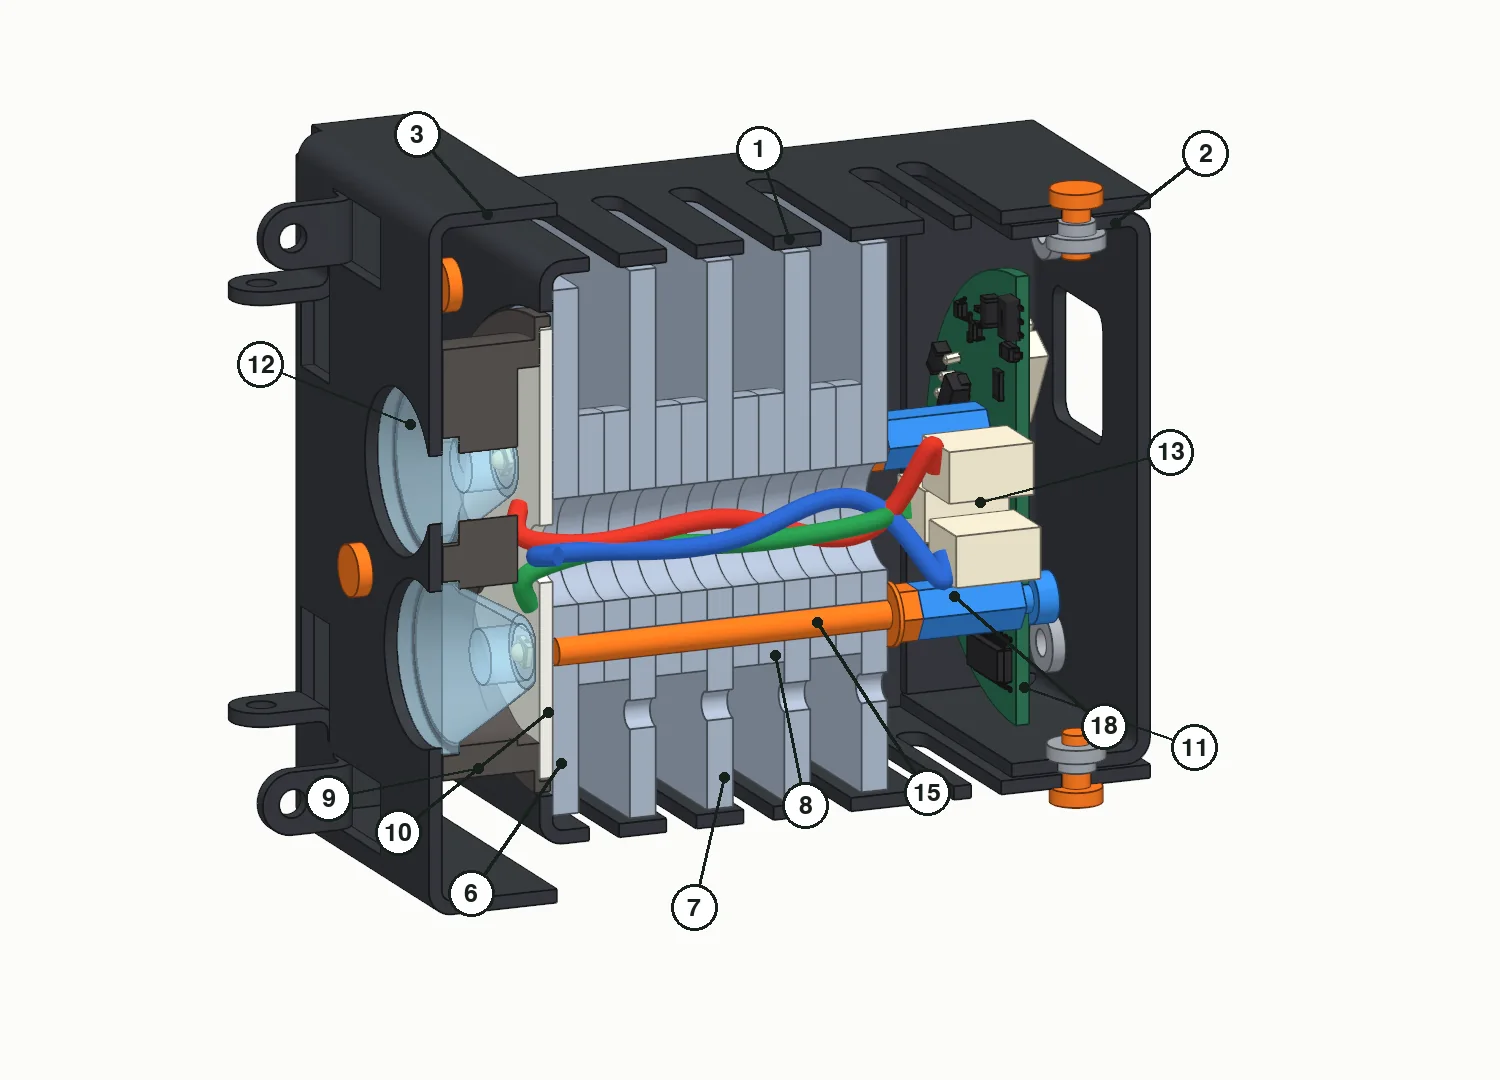
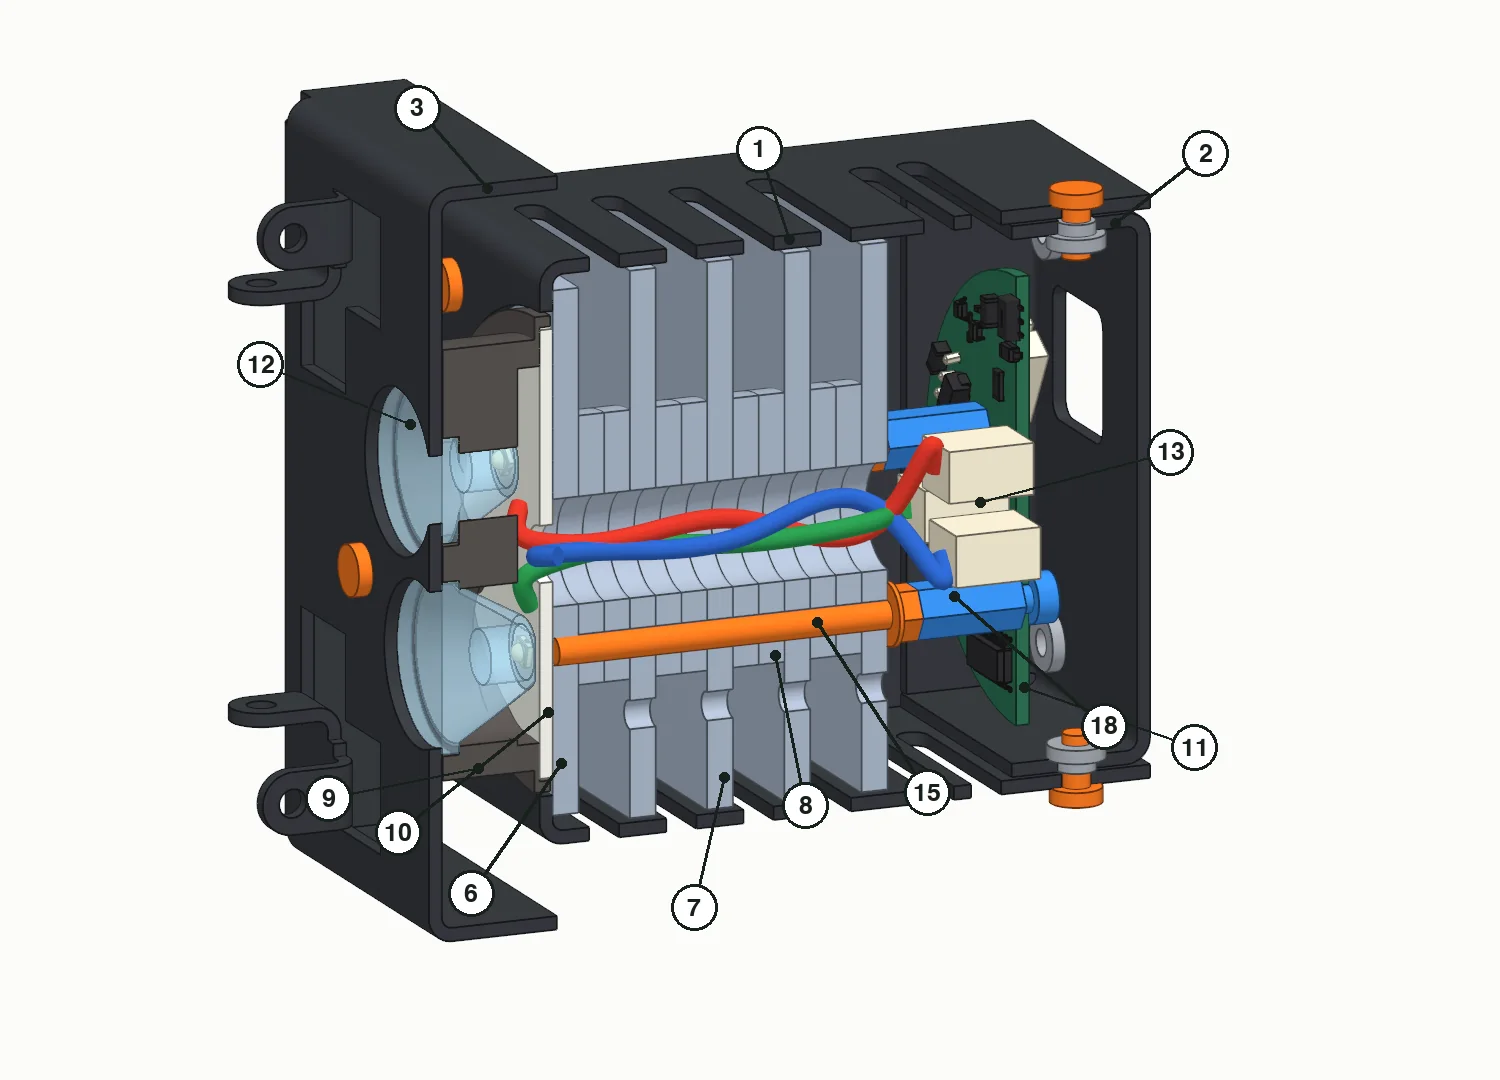
docs: the assembly guide follows round 8's hood and the AliExpress order
Master moved while the guide was written. PR #4 replaced the hood (round 8,
D36): 84 mm square, with wider windows beside the lugs. assembly_views.py
now builds from round8.py, and the seven pictures that show the hood are
drawn again. Step 9 takes two points from D38: brush print powder out of
the carrier's pockets, and don't lever on the skirt's 0.6 mm ring.

The lenses, sleeve and silicone were ordered on 2026-11-19, so the guide
says "ordered" where it said "in the cart". Their fit stays open.

diff --git a/docs/assembly/index.html b/docs/assembly/index.html
@@ -219,14 +219,14 @@ pre { margin: 0; font-family: var(--font-mono); font-size: 12.5px; background: v
   </div>
   <div class="tb">
     <div><span class="k">Boards</span><span class="v">driver v2.4 · LED v2.0</span></div>
-    <div><span class="k">Housing</span><span class="v">round 7</span></div>
+    <div><span class="k">Housing</span><span class="v">round 8</span></div>
     <div><span class="k">Written</span><span class="v mono">2026-11-19</span></div>
     <div><span class="k">Built from it</span><span class="v">no lamp yet</span></div>
     <div class="wide"><span class="k">State</span><span class="v">Written from the design files before any part arrived. Nothing here has been tried on hardware: each step says how far it is settled, and the <a href="#open">open points</a> list what the first build has to answer.</span></div>
   </div>
   <div class="specs">
     <span>shell <b>65 × 65 mm</b></span>
-    <span>hood <b>78 × 78 mm</b></span>
+    <span>hood <b>84 × 84 mm</b></span>
     <span>length <b>94 mm</b>, 130 with the doors standing</span>
     <span>over the knobs <b>115 mm</b></span>
     <span>about <b>0.38 kg</b> (estimate, D30)</span>
@@ -346,7 +346,7 @@ pre { margin: 0; font-family: var(--font-mono); font-size: 12.5px; background: v
         <tr class="grp"><td colspan="5">Housing: sheet metal from JLCCNC (Al 5052) and one print</td></tr>
         <tr><td class="n"><b class="pn">1</b></td><td>Shell</td><td class="n">1</td><td class="n">5</td><td>1.5 mm, black powder coat. Front face with the 54 mm window, four walls with vent slots.</td></tr>
         <tr><td class="n"><b class="pn">2</b></td><td>Cap</td><td class="n">1</td><td class="n">5</td><td>1.5 mm, black. Comes with 8 press nuts fitted: M3 top and bottom, M4 in each side rim, 4 × M3 in the back.</td></tr>
-        <tr><td class="n"><b class="pn">3</b></td><td>Hood</td><td class="n">1</td><td class="n">5</td><td>1.5 mm, black. Three lens windows, eight lugs for the door pins.</td></tr>
+        <tr><td class="n"><b class="pn">3</b></td><td>Hood</td><td class="n">1</td><td class="n">5</td><td>1.5 mm, black, 84 mm square (round 8, D36). Three lens windows, eight lugs for the door pins.</td></tr>
         <tr><td class="n"><b class="pn">4</b></td><td>Door</td><td class="n">4</td><td class="n">20</td><td>1.0 mm, black. One part four times: 40 mm from hinge to tip, 71 mm wide.</td></tr>
         <tr><td class="n"><b class="pn">5</b></td><td>Yoke</td><td class="n">1</td><td class="n">5</td><td>3 mm, black.</td></tr>
         <tr><td class="n"><b class="pn">6</b></td><td>Plate</td><td class="n">1</td><td class="n">5</td><td>3 mm, bare, 58.5 mm square, 10 × M3 threads and the 12 mm bore. It has a front and a back: see step 5.</td></tr>
@@ -356,7 +356,7 @@ pre { margin: 0; font-family: var(--font-mono); font-size: 12.5px; background: v
         <tr class="grp"><td colspan="5">Boards and optics</td></tr>
         <tr><td class="n"><b class="pn">10</b></td><td>LED board v2.0</td><td class="n">1</td><td class="n">5</td><td>Aluminium, white mask, the three LEDs fitted by JLC. Arrives with JLC's edge rails on.</td></tr>
         <tr><td class="n"><b class="pn">11</b></td><td>Driver board v2.4</td><td class="n">1</td><td class="n">5</td><td>Assembled by JLC except J1 and J2.</td></tr>
-        <tr><td class="n"><b class="pn">12</b></td><td>Lens</td><td class="n">3</td><td class="n">15</td><td>Generic 20 mm PMMA TIR lens without holder, 30°, smooth face (AliExpress item 1005002662759375). 20 are in the cart, unpaid, on 2026-11-19: 15 and 5 spare. The listing has no drawing, so the fit is not known: step 9.</td></tr>
+        <tr><td class="n"><b class="pn">12</b></td><td>Lens</td><td class="n">3</td><td class="n">15</td><td>Generic 20 mm PMMA TIR lens without holder, 30°, smooth face (AliExpress item 1005002662759375). 20 ordered on 2026-11-19: 15 and 5 spare. The listing has no drawing, so the fit is not known: step 9.</td></tr>
         <tr><td class="n"><b class="pn">13</b></td><td>LED lead</td><td class="n">3</td><td class="n">15</td><td>JST XHP-2 plug (C144401), two SXH-001T-P0.6 contacts (C140573), two wires of about 8 cm; or a ready-made XH 2-pin lead. From own stock.</td></tr>
         <tr><td class="n"><b class="pn">14</b></td><td>XH 3-pin header</td><td class="n">2</td><td class="n">10</td><td>JST B3B-XH-A (C144394), for J1 and J2. In LCSC order WM2611190181.</td></tr>
         <tr class="grp"><td colspan="5">Fasteners, to buy (PRODUCTION.md, Parts for the open orders)</td></tr>
@@ -414,8 +414,8 @@ pre { margin: 0; font-family: var(--font-mono); font-size: 12.5px; background: v
         <li><b>Thread-lock, medium strength</b>: the studs in the plate.</li>
         <li><b>Solder.</b></li>
         <li><b>Wire</b> for the leads: 24 AWG with thin high-temperature insulation, at most 1.5 mm across. Not silicone (D24).</li>
-        <li><b>Sleeve</b> for the six wires in the LED board's hole (D20): silicone-coated fibreglass, black, 200 °C, in 4 mm and 5 mm inner diameter. In the AliExpress cart. <span class="tag open">open</span> Which size fits: step 3.</li>
-        <li><b>Black silicone</b>, a dab for the wire hole (D27): Kafuter K-704B, RTV. In the AliExpress cart. <span class="tag open">open</span> When it goes on: step 8.</li>
+        <li><b>Sleeve</b> for the six wires in the LED board's hole (D20): silicone-coated fibreglass, black, 200 °C, in 4 mm and 5 mm inner diameter. Ordered at AliExpress on 2026-11-19. <span class="tag open">open</span> Which size fits: step 3.</li>
+        <li><b>Black silicone</b>, a dab for the wire hole (D27): Kafuter K-704B, RTV. Ordered at AliExpress on 2026-11-19. <span class="tag open">open</span> When it goes on: step 8.</li>
       </ul>
     </div>
   </div>
@@ -584,7 +584,7 @@ pre { margin: 0; font-family: var(--font-mono); font-size: 12.5px; background: v
         <h4>Open</h4>
         <ul>
           <li><b>The rails.</b> How JLC joins them to a round aluminium board is not known until the boards arrive.</li>
-          <li><b>The sleeve's size.</b> Two are in the cart, 4 mm and 5 mm inside, and the listing gives no wall thickness: use whichever passes the 6.4 mm hole with the six wires in it. Six 1.5 mm wires bundle to about 4.5 mm, so the 5 mm one is the likelier, if its wall is 0.7 mm or less. Worked out here, not tried.</li>
+          <li><b>The sleeve's size.</b> Two are ordered, 4 mm and 5 mm inside, and the listing gives no wall thickness: use whichever passes the 6.4 mm hole with the six wires in it. Six 1.5 mm wires bundle to about 4.5 mm, so the 5 mm one is the likelier, if its wall is 0.7 mm or less. Worked out here, not tried.</li>
           <li><b>No grommet.</b> Its flange on the board's front, with a wire over it, would stand higher than the 2.5 mm the carrier leaves.</li>
           <li><b>Soldering to aluminium</b> has not been tried on this board.</li>
         </ul>
@@ -878,7 +878,8 @@ pre { margin: 0; font-family: var(--font-mono); font-size: 12.5px; background: v
         <span><b>Tools:</b> 2 mm hex key</span>
       </div>
       <ol class="do">
-        <li>Set the carrier on the LED board: its skirt goes down around the board's edge, its three small holes over the board's.</li>
+        <li>Look into the carrier's three pockets and brush out any powder left from printing. Powder on a pocket's ledge lifts its lens by its own thickness (D38).</li>
+        <li>Set the carrier on the LED board: its skirt goes down around the board's edge, its three small holes over the board's. Don't lever on the skirt: it hangs from a ring 0.6 mm thick.</li>
         <li>Drop a lens into each pocket, narrow end down, so its hollow sits over the LED and its flange rests on the ledge. Hold the lenses by the flange.</li>
         <li>Lower the hood over them, its three round windows over the lenses and its walls back over the shell's front.</li>
         <li>Three M3 × 20 through hood, carrier and LED board into the plate. Tighten them evenly, a little at a time: they clamp the LED board through the lens flanges and the carrier.</li>
@@ -893,7 +894,7 @@ pre { margin: 0; font-family: var(--font-mono); font-size: 12.5px; background: v
       <div class="openpt">
         <h4>Open</h4>
         <ul>
-          <li><b>The lenses</b> are in the cart, not on hand, and their listing has no drawing. Measure them on arrival against the model: 10.8 mm tall, flange 19.9 × 2.0 mm, hollow 6.1 mm. Another seller's drawing shows 10.4, 1.9 and 6.4 mm. Whether they fit the 20.4 mm pockets is not known.</li>
+          <li><b>The lenses</b> are ordered, not on hand, and their listing has no drawing. Measure them on arrival against the model: 10.8 mm tall, flange 19.9 × 2.0 mm, hollow 6.1 mm. Another seller's drawing shows 10.4, 1.9 and 6.4 mm. Whether they fit the 20.4 mm pockets is not known.</li>
           <li><b>The flange.</b> The pockets are 1.9 mm deep. A 1.9 mm flange would sit flush with the carrier, and the hood would no longer press on the lens. Worked out from the model.</li>
           <li><b>How tight.</b> No torque is recorded. The screws bear on PMMA flanges and a printed carrier: stop when they are snug.</li>
         </ul>
@@ -1093,7 +1094,7 @@ pre { margin: 0; font-family: var(--font-mono); font-size: 12.5px; background: v
     <div class="step-head"><span class="step-no">B</span><h3>Focus test with the taller carriers</h3><span class="tag open">open</span></div>
     <div class="step-pics">
       <p class="muted">The first order has one carrier 0.5 mm taller and one 1.0 mm taller besides the five (D27). A taller carrier lifts the lenses and the hood by that much.</p>
-      <p class="muted">The cart also has five each of four other 20 mm lenses to compare with the 30° smooth one: 15° smooth, 45° smooth, 30° with a bead face and 30° frosted. They change in the same way, without the carrier.</p>
+      <p class="muted">The lens order also has five each of four other 20 mm lenses to compare with the 30° smooth one: 15° smooth, 45° smooth, 30° with a bead face and 30° frosted. They change in the same way, without the carrier.</p>
       <p class="muted small">The LED screws still reach: their tips stand 2.6 mm out of the plate's back with the normal carrier, so 1.6 mm with the tallest. The hood's walls then reach 1.0 mm back over the shell in place of 2.0.</p>
     </div>
     <div class="step-body">
@@ -1118,9 +1119,9 @@ pre { margin: 0; font-family: var(--font-mono); font-size: 12.5px; background: v
     <p class="muted">What the records do not settle, and the fits that exist only in the model. The first lamp answers most of them.</p>
   </div>
   <ol class="qs">
-    <li><div><b>The lenses</b> <span class="src">parts, step 9</span><p>Chosen on 2026-11-19 and in the AliExpress cart, unpaid: 20 of a generic 20 mm lens, 30°, smooth. The listing has no drawing. Measure on arrival: the model has 10.8 mm tall, flange 2.0, hollow 6.1; another seller's drawing shows 10.4, 1.9 and 6.4.</p></div></li>
-    <li><div><b>The sleeve in the LED board's hole</b> <span class="src">step 3</span><p>Silicone-coated fibreglass sleeve is in the cart in 4 mm and 5 mm. No wall thickness is given: which one passes the 6.4 mm hole with six wires in it shows when they arrive.</p></div></li>
-    <li><div><b>The black silicone</b> <span class="src">step 8</span><p>Kafuter K-704B is in the cart; its listing doesn't state the cure type. When it goes on is not recorded: this guide puts it at the end of step 8.</p></div></li>
+    <li><div><b>The lenses</b> <span class="src">parts, step 9</span><p>Ordered at AliExpress on 2026-11-19, not on hand: 20 of a generic 20 mm lens, 30°, smooth. The listing has no drawing. Measure on arrival: the model has 10.8 mm tall, flange 2.0, hollow 6.1; another seller's drawing shows 10.4, 1.9 and 6.4.</p></div></li>
+    <li><div><b>The sleeve in the LED board's hole</b> <span class="src">step 3</span><p>Silicone-coated fibreglass sleeve is ordered in 4 mm and 5 mm. No wall thickness is given: which one passes the 6.4 mm hole with six wires in it shows when they arrive.</p></div></li>
+    <li><div><b>The black silicone</b> <span class="src">step 8</span><p>Kafuter K-704B is ordered; its listing doesn't state the cure type. When it goes on is not recorded: this guide puts it at the end of step 8.</p></div></li>
     <li><div><b>The studs' depth and the thread-lock's cure</b> <span class="src">step 5</span><p>0.2 mm below the plate's front face is recorded, not how to set it. No product is chosen, so no cure time.</p></div></li>
     <li><div><b>The doors</b> <span class="src">step 11</span><p>Before or after the cap, and how tight the nylocks go.</p></div></li>
     <li><div><b>JLC's rails on the aluminium boards</b> <span class="src">step 3</span><p>How they are joined and how clean they break. The carrier's skirt clears the board's edge by 0.3 mm.</p></div></li>
@@ -1154,15 +1155,15 @@ pre { margin: 0; font-family: var(--font-mono); font-size: 12.5px; background: v
 
 <section class="panel sources" id="sources">
   <div class="sec-head"><span class="eyebrow">Sources</span></div>
-  <div>From the project at master 76d5e04 (2026-11-18):</div>
+  <div>From the project at master 11a3b1e (2026-11-19):</div>
   <ul>
-    <li><code>mech/housing/README.md</code>: the parts, the fasteners and the assembly order. <code>mech/housing/sheet.py</code> and <code>round2.py</code> to <code>round7.py</code>: every size and clearance quoted here.</li>
-    <li>DESIGN.md decisions D19 to D35. PRODUCTION.md, "After the boards arrive" and the parts table. <code>production/orders/2026-11-16-v2-first/order.toml</code>.</li>
+    <li><code>mech/housing/README.md</code>: the parts, the fasteners and the assembly order. <code>mech/housing/sheet.py</code> and <code>round2.py</code> to <code>round8.py</code>: every size and clearance quoted here.</li>
+    <li>DESIGN.md decisions D19 to D38. PRODUCTION.md, "After the boards arrive" and the parts table. <code>production/orders/2026-11-16-v2-first/order.toml</code>.</li>
     <li><code>docs/reviews/2026-10-30-v2.md</code>: the bench list and R8 to R13.</li>
-    <li>The lenses, the sleeve and the silicone: the order's extras at master b3cb28a (2026-11-19).</li>
+    <li>The lenses, the sleeve and the silicone: the extras in the order file above, as recorded on 2026-11-19.</li>
     <li>Pad and pin places on the board pictures: read from <code>boards/driver/driver.kicad_pcb</code> and <code>boards/led/led.kicad_pcb</code>.</li>
   </ul>
-  <div>The pictures in <code>img/</code> come from one script. It draws the housing from round 7's model and cuts the boards' views from <code>docs/previews/</code>. After a change to the model or a board:</div>
+  <div>The pictures in <code>img/</code> come from one script. It draws the housing from round 8's model and cuts the boards' views from <code>docs/previews/</code>. After a change to the model or a board:</div>
   <pre>cd mech/housing
 ROT=45 uv run --python 3.12 --with cadquery --with pillow python assembly_views.py ../../docs/assembly/img</pre>
   <div>It needs the two boards' STEP files in <code>mech/out/</code> (the commands are in <code>mech/housing/README.md</code>). The part numbers are the script's <code>PART</code> table and this page's parts table: change both together. The drawings in steps 2, 5 and 8 and the labels on the board pictures are in this file.</div>

diff --git a/mech/housing/assembly_views.py b/mech/housing/assembly_views.py
@@ -1,8 +1,8 @@
-"""The assembly guide's pictures (docs/assembly/img/), drawn from round 7's model.
+"""The assembly guide's pictures (docs/assembly/img/), drawn from round 8's model: round 7 with the new hood.
 
 ROT=45 uv run --python 3.12 --with cadquery --with pillow python assembly_views.py ../../docs/assembly/img [NAME ...]
 
-Each picture is one scene: solids from round7.py and the two boards' STEPs (../out, see README.md), tessellated, drawn
+Each picture is one scene: solids from round8.py and the two boards' STEPs (../out, see README.md), tessellated, drawn
 off-screen with VTK through a parallel camera, and numbered with PIL. With names after the folder, only those scenes are
 drawn; PNG=1 writes PNGs beside the WebPs.
 
@@ -32,6 +32,7 @@ from vtk.util import numpy_support as ns  # noqa: E402
 import round3 as R3  # noqa: E402
 import round4 as R4  # noqa: E402
 import round7 as R7  # noqa: E402
+import round8 as R8  # noqa: E402
 import sheet as S  # noqa: E402
 
 # part number -> (name, per lamp)
@@ -158,8 +159,8 @@ def door_pins():
 
 
 print("building the model ...", flush=True)
-parts = R7.build()
-LAMP, HW = group(R7.lamp(parts, 90, 90)), group(R7.hardware())
+parts = R8.build()
+LAMP, HW = group(R8.lamp(parts, 90, 90)), group(R8.hardware())
 zc = lambda s: s.BoundingBox().center.z                       # noqa: E731
 LAMP["fin"].sort(key=zc, reverse=True)                        # front to back
 LAMP["spacer"].sort(key=zc, reverse=True)
@@ -486,7 +487,7 @@ def lead(sc, c, pts, plug_at):
 
 # ---------------------------------------------------------------- the scenes
 def lamp_views():
-    dm = [mesh(s) for _, s in R7.doors(parts["door"], 118, 118)]
+    dm = [mesh(s) for _, s in R8.doors(parts["door"], 118, 118)]
     for name, eye, focal, scale in (("lamp-front", (0.80, 0.42, 1.0), (0, -8, -8), 82),
                                     ("lamp-back", (0.85, 0.48, -1.0), (0, 2, -6), 96)):
         if ONLY and name not in ONLY:
@@ -705,7 +706,7 @@ def P(name, i=None):
 
 def parts_housing():
     sc = Scene("parts-housing", (1600, 1280), (0, 0, 0), (0.62, 0.45, 1.0), 140)
-    door = mesh(R7.doors(parts["door"], 0, 0)[0][1])          # a door as it lies closed
+    door = mesh(R8.doors(parts["door"], 0, 0)[0][1])          # a door as it lies closed
     for n, what, u, v in ((1, [P("shell")], -122, 88), (2, [P("cap"), P("capnuts")], -38, 88), (3, [P("hood")], 42, 88),
                           (5, [P("yoke")], 127, 88), (4, [(door, "coat")], -120, -5), (6, [P("plate")], -47, -5),
                           (7, [P("fin", 0)], 19, -5), (8, [P("spacer", 0)], 74, -5), (9, [P("carrier")], 127, -5),

diff --git a/mech/housing/README.md b/mech/housing/README.md
@@ -113,7 +113,7 @@ uv run --python 3.12 --with cadquery python knob.py print
   carriers' walls against JLC3DP's (needs `--with trimesh --with rtree`). `leaks.py`, `spill_rays.py`, `door5.js`, `beam6.js`:
   the light-leak and beam studies behind D21–D23. `thermal_sheet.py`: the heat budget.
 - `knob.py`: the printable knob and its plug, exported to `print/`.
-- `assembly_views.py`: the assembly guide's pictures (`docs/assembly/img/`), drawn from round 7's model with the
+- `assembly_views.py`: the assembly guide's pictures (`docs/assembly/img/`), drawn from round 8's model with the
   guide's part numbers:
   `ROT=45 uv run --python 3.12 --with cadquery --with pillow python assembly_views.py ../../docs/assembly/img`.
 - Renders, review pages and earlier rounds' STEPs stay in `build/heatsink/housing/sheet/` (git-ignored).
